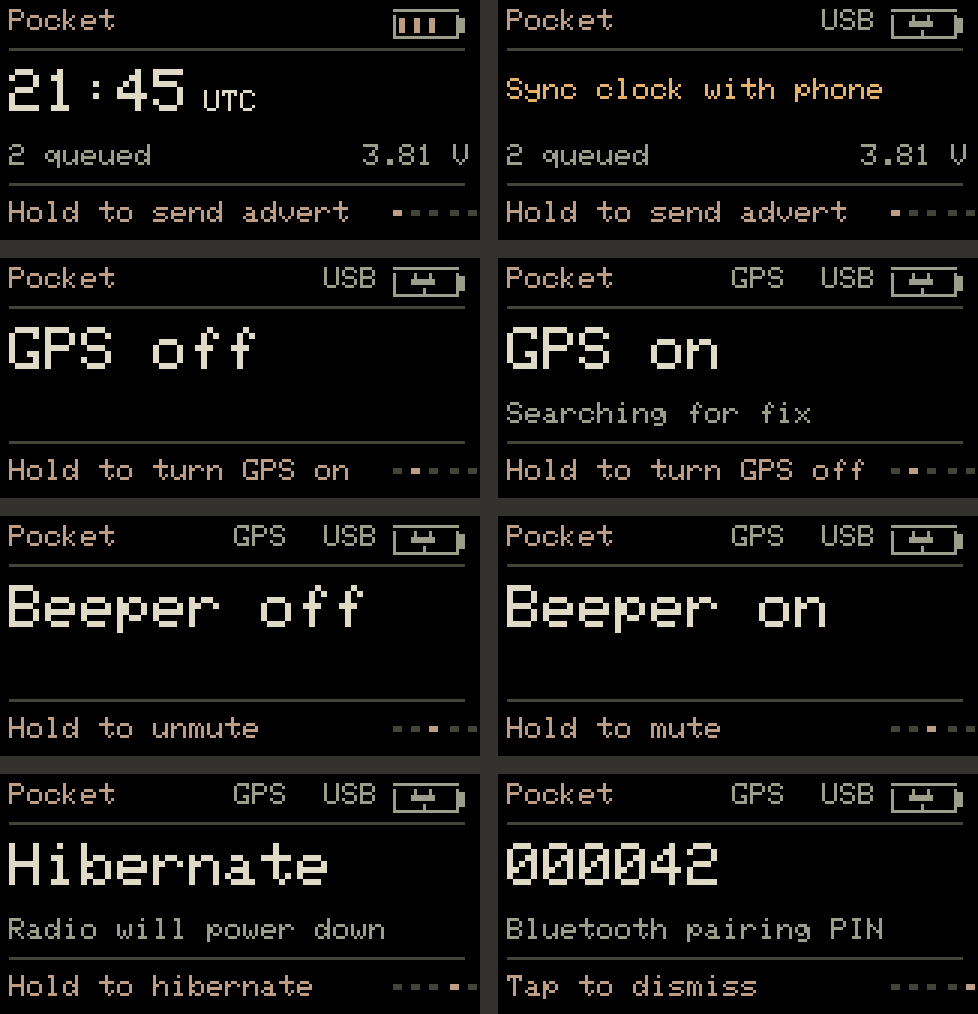
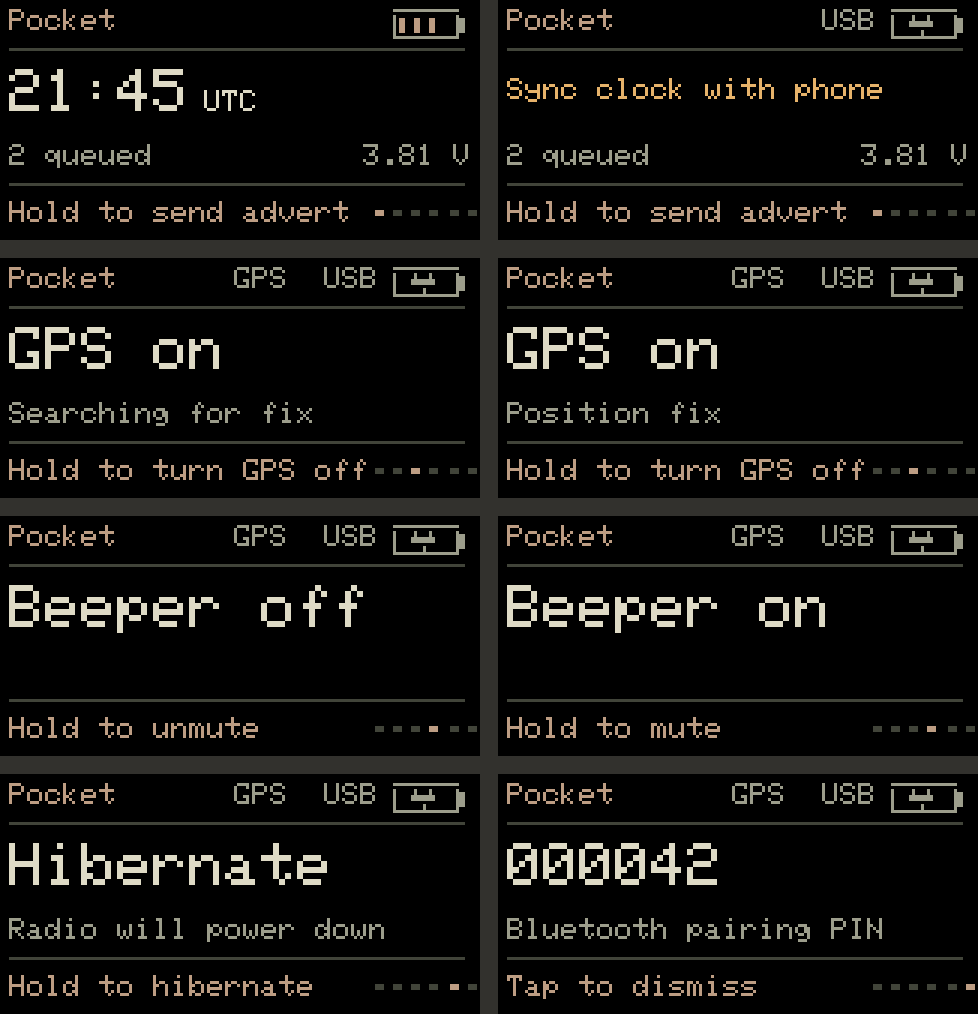
Preview both GPS fix states in the main firmware

diff --git a/tests/screen.cpp b/tests/screen.cpp
@@ -284,8 +284,12 @@ int main(){
   home.handleInput(KEY_ENTER);assert(task.gps);
   puts("PAGE gps-on");home.render(display);
   assert(display.detail=="Searching for fix" && display.hint=="Hold to turn GPS off");
-  gpsFix=true;home.render(display);assert(display.detail=="Position fix");
-  gpsFix=false;home.render(display);assert(display.detail=="Searching for fix");
+  gpsFix=true;
+  puts("PAGE gps-fix");home.render(display);
+  assert(display.detail=="Position fix");
+  gpsFix=false;
+  puts("PAGE gps-lost");home.render(display);
+  assert(display.detail=="Searching for fix");
   home.handleInput(KEY_NEXT);
   puts("PAGE beeper-off");home.render(display);
   assert(display.largeText=="Beeper off" && display.hint=="Hold to unmute" && task.beeperToggles==0);

diff --git a/README.md b/README.md
@@ -6,17 +6,17 @@ An independent MeshCore companion firmware for the **Heltec Mesh Node T1** with 
 
 Home shows the clock, queued messages and battery voltage. A plug replaces the battery bars on USB. The bottom line tells you what a hold will do on each page.
 
-<img src="screen-preview.png" width="652" alt="Eight community firmware renders. Home shows the UTC clock on battery and a clock-sync prompt on USB. The next two rows show GPS and Beeper toggled off and on. The last row shows Hibernate and the pairing prompt with a sample PIN." />
+<img src="screen-preview.png" width="652" alt="Eight firmware screens. Home shows the UTC clock on battery and a clock-sync prompt on USB. The next two rows show GPS searching and holding a position fix, then Beeper off and on. The last row shows Hibernate and the pairing prompt with a sample PIN." />
 
 ### Discover Repeaters
 
 One upper tap from Home opens Repeaters. Hold either button there for one nearby scan. The screen shows when the request is queued, then lists up to four repeaters by received signal-to-noise ratio (SNR), strongest first. A lit display stays on throughout the queued request and the 15-second listening window. When the scan finishes, the full configured idle timeout starts so you can read the results. The examples use simulated replies.
 
-<img src="docs/discover-repeaters-preview.png" width="652" alt="Four development renders. The Repeaters page prompts a hold to discover, then shows the queued request, a listening screen with repeater names or key prefixes and SNR in dB, and a countdown until another scan." />
+<img src="docs/discover-repeaters-preview.png" width="652" alt="Four firmware screens. The Repeaters page prompts a hold to discover, then shows the queued request, a listening screen with repeater names or key prefixes and SNR in dB, and a countdown until another scan." />
 
 ## On the node
 
-Tap either side button to wake the display. On a lit screen, tap the upper button to go forward or the lower button to go back. Hold either for one second to use the action on the current page. Home sends an advert after clock sync. The GPS page toggles the receiver and shows “Searching for fix” until it receives a fresh position fix. Beeper toggles the T1’s saved quiet setting. Hibernate powers down after release. The screen sleeps after 30 seconds of inactivity by default, including on USB. During the first eight seconds after boot, holding the upper button enters MeshCore rescue mode. [Side button diagram, page 5](https://resource.heltec.cn/download/Mesh_Node_T1/Datasheet/Mesh-Node-T1.pdf#page=5)
+Tap either side button to wake the display. On a lit screen, tap the upper button to go forward or the lower button to go back. Hold either for one second to use the action on the current page. Home sends an advert after clock sync. The GPS page toggles the receiver and shows “Searching for fix” or “Position fix” while it is on. Beeper toggles the T1’s saved quiet setting. Hibernate powers down after release. The screen sleeps after 30 seconds of inactivity by default, including on USB. During the first eight seconds after boot, holding the upper button enters MeshCore rescue mode. [Side button diagram, page 5](https://resource.heltec.cn/download/Mesh_Node_T1/Datasheet/Mesh-Node-T1.pdf#page=5)
 
 When Bluetooth is available and a phone is disconnected, the first button wake shows the six-digit pairing PIN. Tap either button to dismiss it. Later wakes open Home. To see the PIN again, tap the lower button from Home. As soon as a Bluetooth connection is secured, the PIN disappears and both buttons skip the Pairing page. Disconnecting leaves the screen asleep if it was asleep. USB charging or a wired session alone does not hide the PIN.
 
@@ -58,7 +58,7 @@ On a correctly identified T1, an application-only MeshCore update preserves the 
 
 ## Following MeshCore releases
 
-`upstream.json` pins the reviewed release. To test the latest stable release on a computer, run `python3 update.py --latest --check-only` and then `python3 update.py --latest --out builds`. Host checks exercise clock arithmetic, button timing, pairing visibility, screen navigation and companion-port ownership. Full builds cross-check the UF2 pages against the Intel HEX, the Nordic application package against the UF2, and the combined build’s USB-update entry point against its ELF.
+`upstream.json` pins the reviewed release. To test the latest stable release on a computer, run `python3 update.py --latest --check-only` and then `python3 update.py --latest --out builds`. Host checks exercise clock arithmetic, button timing, pairing visibility, screen navigation, discovery replies and timeouts, and companion-port ownership. Full builds cross-check the UF2 pages against the Intel HEX, the Nordic application package against the UF2, and the combined build’s USB-update entry point against its ELF.
 
 The included GitHub Actions workflow checks GitHub’s published MeshCore companion releases daily at 09:17 UTC and on manual dispatch. Each new stable release gets the public companion build and host tests, including when several releases arrive between checks. A separate draft PR proposes each tag and its exact upstream commit. Previously reviewed or closed proposals stay closed. Its description links to the test run and records success or failure. Conflicts stay visible for a maintainer to port and retest. Pull requests run the checks again when a contributor pushes changes. Review and merge on the repository’s default branch after a T1 hardware check.
 
